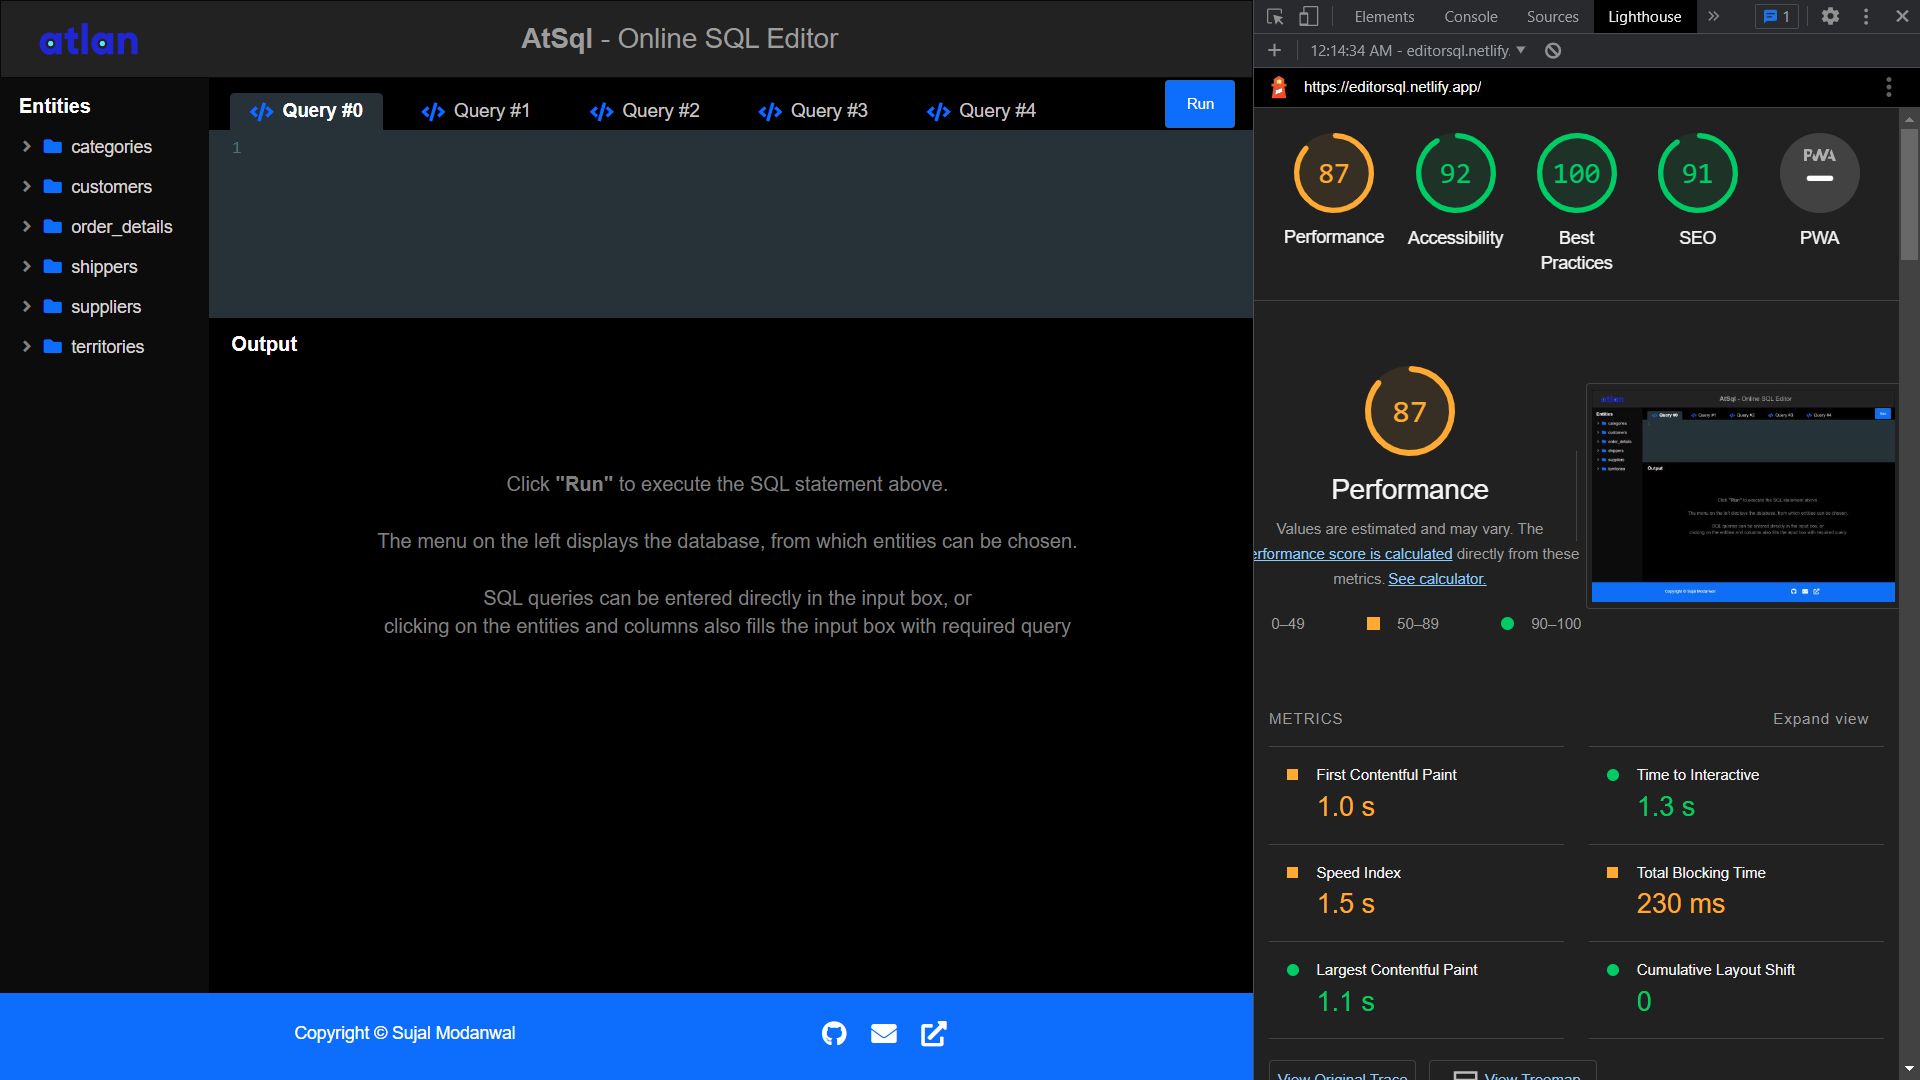
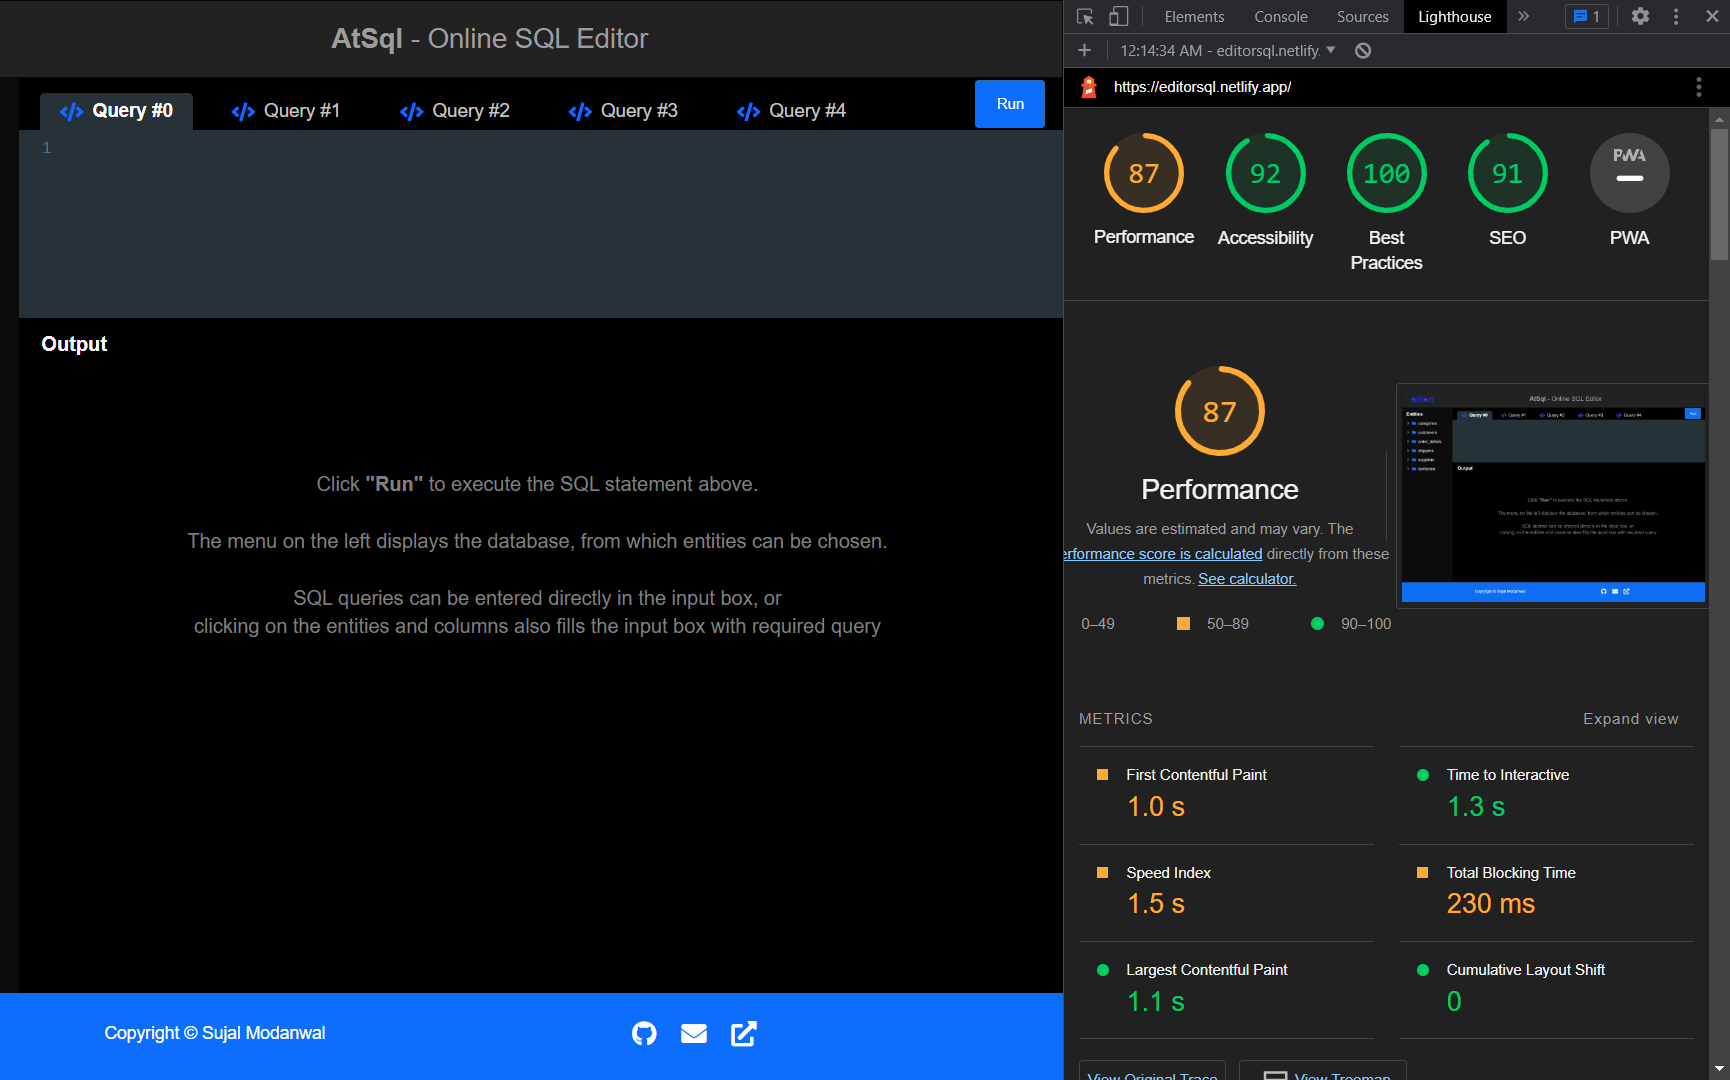
Readme updated

diff --git a/src/Components/Editor.js b/src/Components/Editor.js
@@ -96,7 +96,7 @@ export const Editor = (props) => {
         var colArr=value[0].split(',').map(x=>x.trim());
         if(colArr.length===1 && colArr[0]==="*") 
             colArr = [];
-
+            
         if(!entities.includes(ent)) {
             setCols([])
             setdd("")
@@ -139,7 +139,8 @@ export const Editor = (props) => {
                                     <div className={(dd===entity)? "droppedDown":"dropdown"}>
                                         {Object.keys(entData[entity][0]).map(x=>{
                                             return (
-                                                <div className={(cols.includes(x))?"dropdown-item bgChange": "dropdown-item"} onClick={updQuery}><i className="fas fa-file"></i>{x}</div>
+                                                <div className={(cols.includes(x))?"dropdown-item bgChange": "dropdown-item"} 
+                                                onClick={updQuery}><i className="fas fa-file"></i>{x}</div>
                                             )
                                         })}
                                     </div>

diff --git a/src/Components/Header.js b/src/Components/Header.js
@@ -6,7 +6,7 @@ export const Header = () => {
             <nav className="navbar navbar-inverse">
             <div className="container-fluid">
                 <div className="navbar-header">
-                    <a href="https://atlan.com/"><img src = {logo} alt="logo"/></a>
+                    
                     <div className = "navbar-brand name">
                         <div className="mainT">AtSql</div>&nbsp;- Online SQL Editor
                     </div>

diff --git a/src/Components/Footer.js b/src/Components/Footer.js
@@ -8,7 +8,7 @@ export const Footer = () => {
                 <div>
                     <a href="https://github.com/sujal-ux/SQL-Editor"><i className="fa-brands fa-github"></i></a>
                     <a href="mailto:sumo12082000@gmail.com"><i className="fa fa-envelope"></i></a>
-                    <a href="https://atlan.com/"><i className="fa fa-external-link"></i></a>
+
                 </div>
             </div>
         </>

diff --git a/src/App.js b/src/App.js
@@ -1,8 +1,8 @@
 import React from 'react';
 import './index.css'
 import {Header} from './Components/Header.js'
-import {Footer} from './Components/Footer.js'
 import {Editor} from './Components/Editor.js'
+import {Footer} from './Components/Footer.js'
 
 function App() {
   

diff --git a/README.md b/README.md
@@ -18,7 +18,7 @@ npm run start
 ```
 
 ## Demo
-![demo workflow](media/SqlEditorRecording.gif)
+![demo workflow](media/EditorRecording.gif)
 
 ## Features
 - Includes code-editor to take user input of queries  
